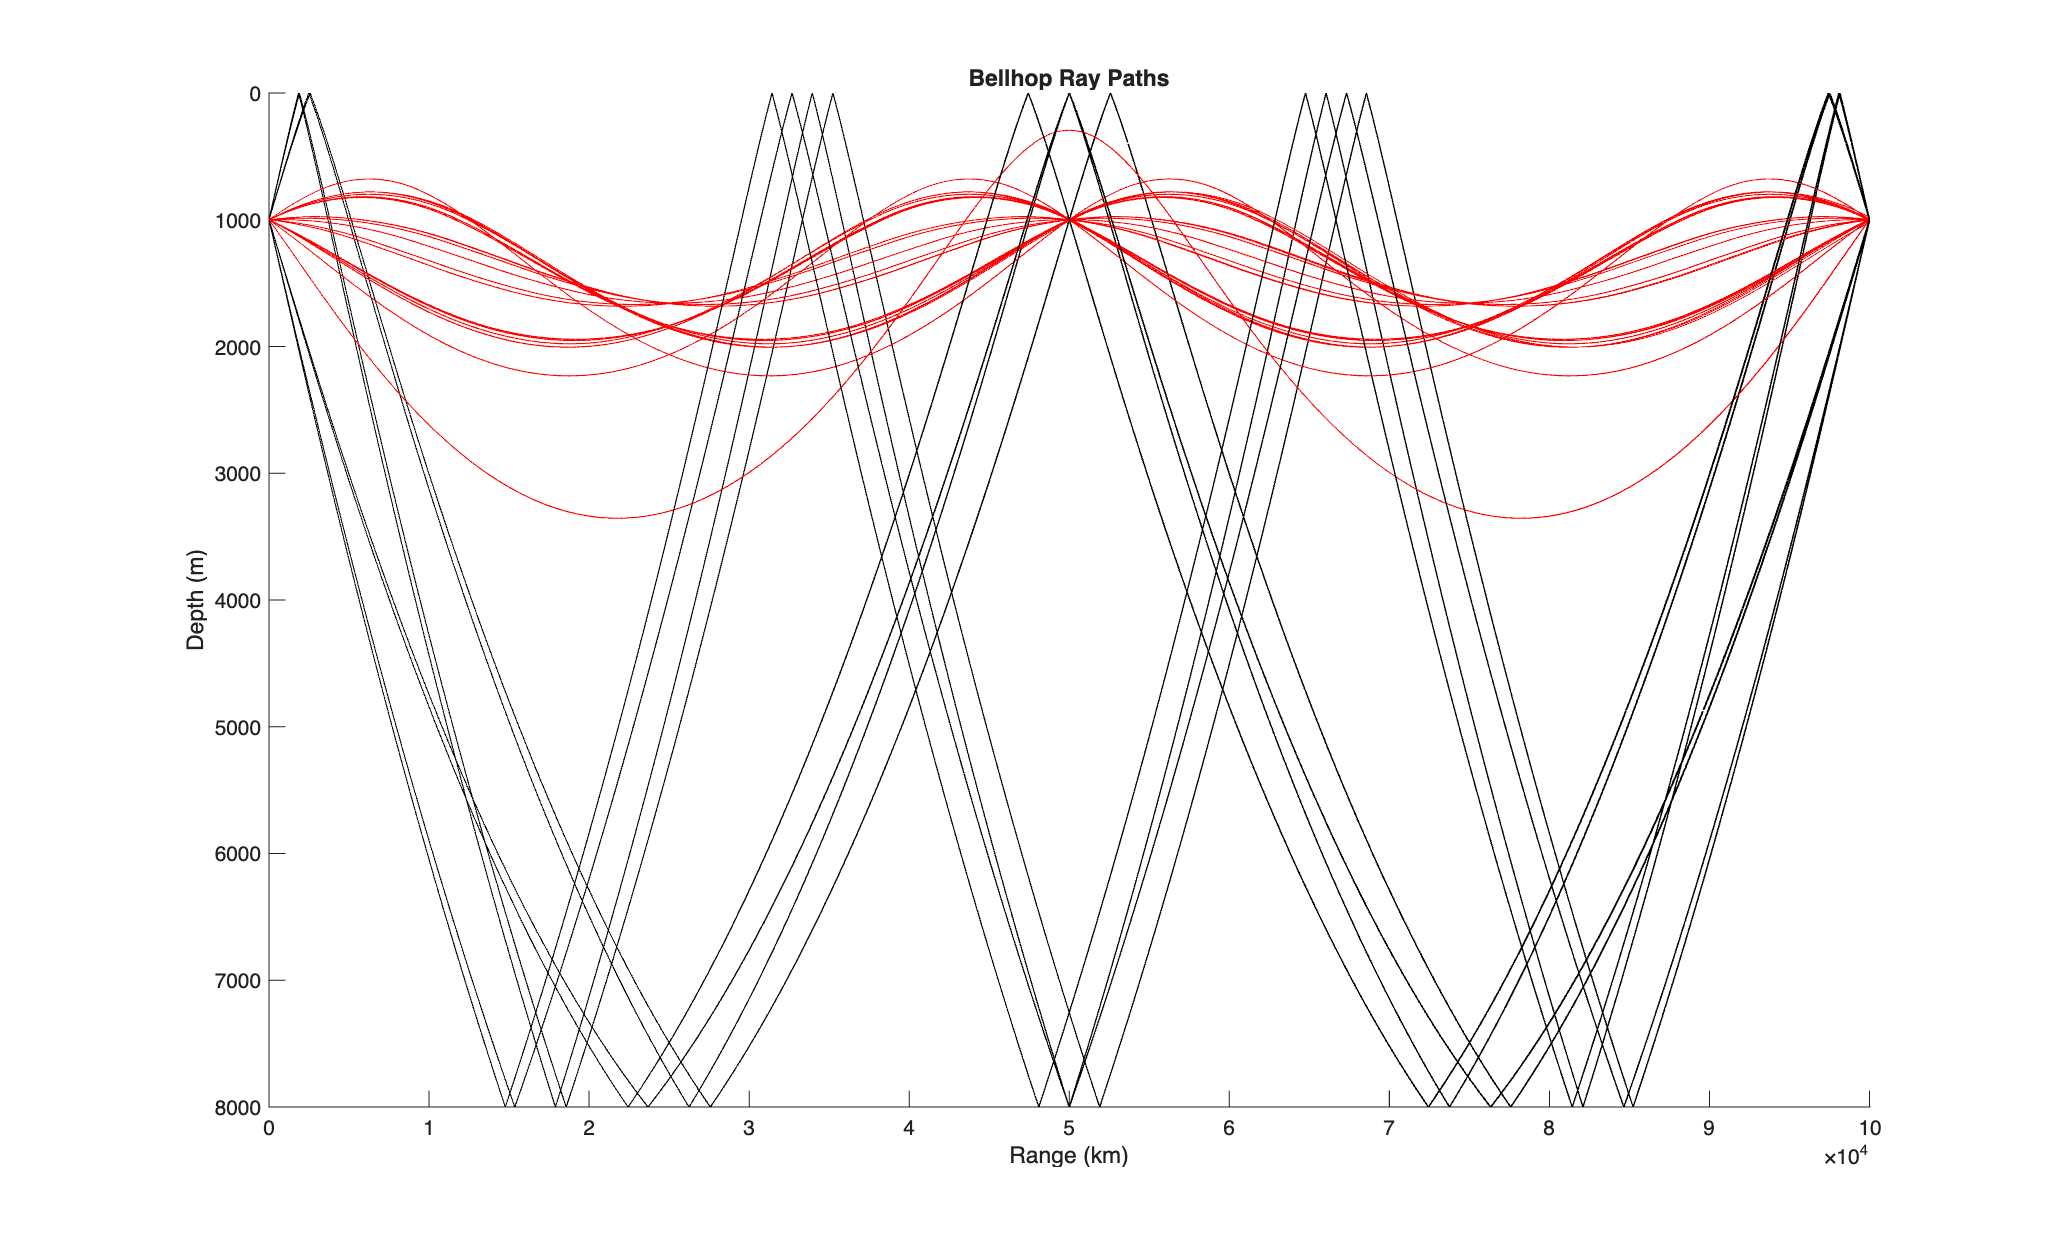
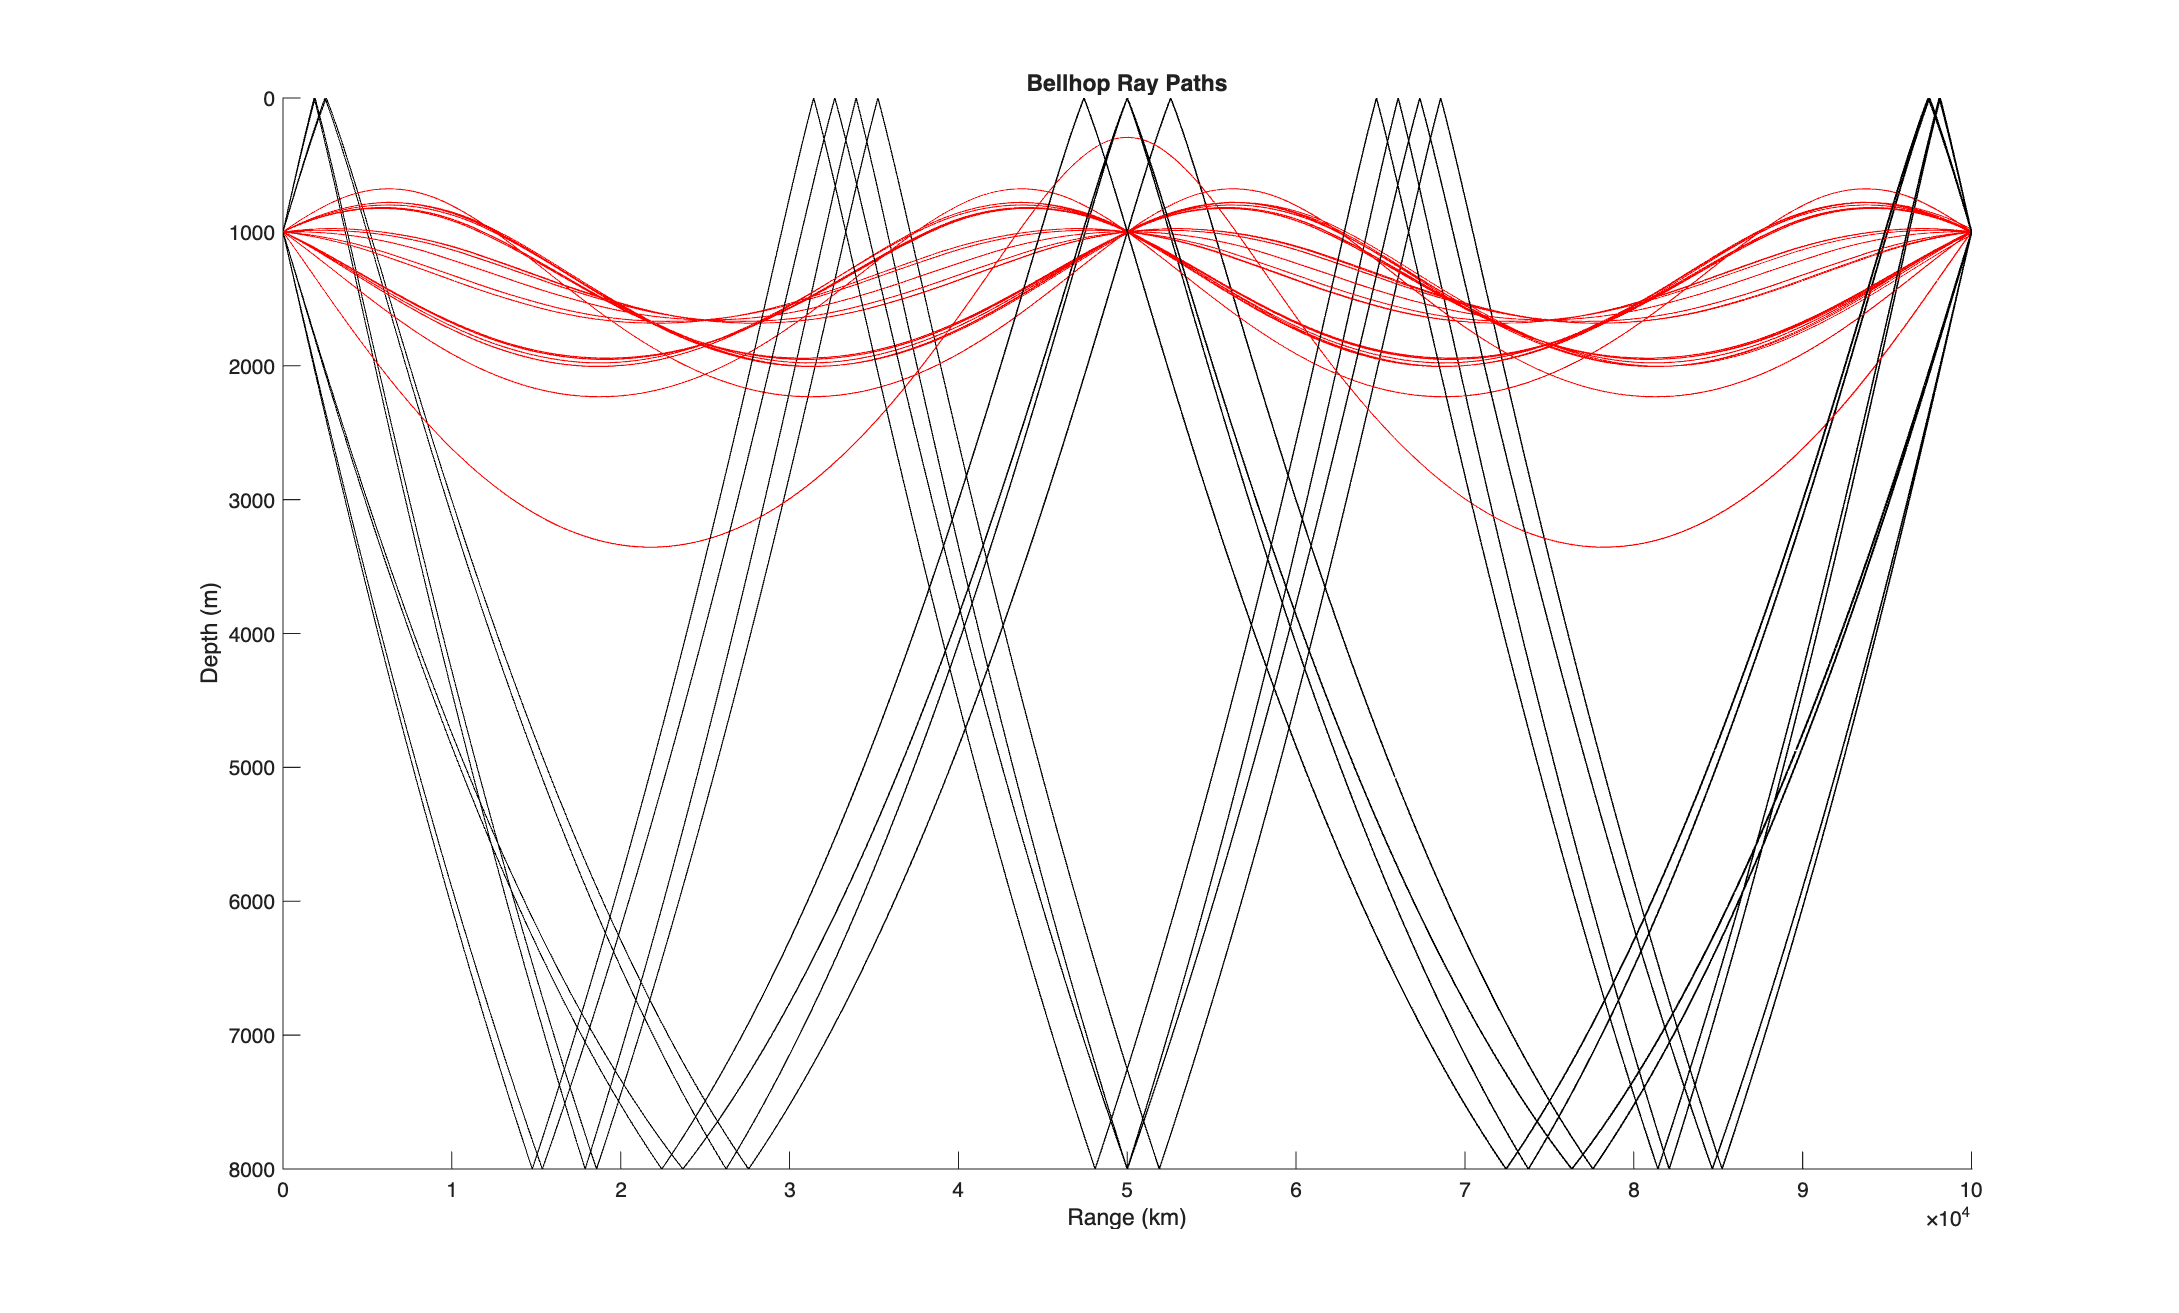
latest changes

diff --git a/run_and_combine.m b/run_and_combine.m
@@ -1,0 +1,83 @@
+%% Run comparison and combine all figures into one
+% This wrapper script runs compare.m and then combines all generated
+% figures into a single comparison figure without modifying the original files
+
+clear; close all; clc;
+
+fprintf('Running model comparison...\n');
+compare;
+
+fprintf('\nCombining figures...\n');
+
+% Get all figure handles (they're created in the order the scripts run)
+figs = findall(0, 'Type', 'figure');
+num_figs = length(figs);
+
+fprintf('Found %d figures to combine\n', num_figs);
+
+% Reverse order since findall returns newest first
+figs = figs(end:-1:1);
+
+% Create combined figure with 2 rows x 3 columns layout
+fig_combined = figure('Position', [50 50 1800 1200], 'Color', 'w');
+
+% Determine grid size based on number of figures
+if num_figs <= 3
+    nrows = 1;
+    ncols = num_figs;
+elseif num_figs <= 6
+    nrows = 2;
+    ncols = 3;
+else
+    nrows = ceil(num_figs / 3);
+    ncols = 3;
+end
+
+% Copy each figure's content to subplot
+for i = 1:num_figs
+    % Create subplot
+    subplot(nrows, ncols, i);
+
+    % Get the axes from the original figure
+    orig_axes = findall(figs(i), 'Type', 'axes');
+
+    if ~isempty(orig_axes)
+        % Use the first (or only) axes if multiple exist
+        orig_ax = orig_axes(1);
+
+        % Copy all children (plots, lines, patches, etc.) to current subplot
+        copyobj(allchild(orig_ax), gca);
+
+        % Copy axes properties
+        title(get(get(orig_ax, 'Title'), 'String'));
+        xlabel(get(get(orig_ax, 'XLabel'), 'String'));
+        ylabel(get(get(orig_ax, 'YLabel'), 'String'));
+
+        % Copy axis direction and limits
+        set(gca, 'YDir', get(orig_ax, 'YDir'));
+        set(gca, 'XLim', get(orig_ax, 'XLim'));
+        set(gca, 'YLim', get(orig_ax, 'YLim'));
+
+        % Copy grid
+        if strcmp(get(orig_ax, 'XGrid'), 'on')
+            grid on;
+        end
+
+        % Make box
+        box on;
+    end
+end
+
+% Add overall title
+sgtitle('Ray Tracing Model Comparison: C-Linear Curvature vs Ray Parameter vs Bellhop', ...
+    'FontSize', 14, 'FontWeight', 'bold');
+
+% Save combined figure
+saveas(fig_combined, 'figures/combined_comparison.png');
+fprintf('Saved combined figure: figures/combined_comparison.png\n');
+
+% Also save as high-resolution PDF for paper
+exportgraphics(fig_combined, 'figures/combined_comparison.pdf', 'Resolution', 300);
+fprintf('Saved high-res PDF: figures/combined_comparison.pdf\n');
+
+fprintf('\nCombination complete!\n');

diff --git a/shared_params.m b/shared_params.m
@@ -4,23 +4,23 @@
 
 %% Environment parameters
 env.max_depth = 8000;       % maximum depth (m)
-env.max_range = 18000;      % maximum range (m) - 15km + 20% buffer
+env.max_range = 100000;     % maximum range (m)
 env.z_min = 0;              % surface depth (m)
 env.z_max = 8000;           % bottom depth (m)
 
 %% Source parameters
-source.depth = 100;         % source depth (m) - shallow source
+source.depth = 1000;        % source depth (m)
 source.range = 0;           % source range (m)
 
 %% Receiver parameters
-receiver.depth = 2000;      % receiver depth (m) - deep receiver below sound channel
-receiver.range = 15000;     % receiver range (m) - 15km medium range
-receiver.tolerance = 10;    % eigenray hit tolerance (m)
+receiver.depth = 1000;      % receiver depth (m)
+receiver.range = 100000;    % receiver range (m)
+receiver.tolerance = 5;     % eigenray hit tolerance (m)
 
 %% Ray fan parameters
-ray_fan.angle_min = -20;    % minimum launch angle (degrees) - narrower for speed
-ray_fan.angle_max = 20;     % maximum launch angle (degrees) - narrower for speed
-ray_fan.num_angles = 501;   % number of rays in fan (reduced for faster computation)
+ray_fan.angle_min = -30;    % minimum launch angle (degrees)
+ray_fan.angle_max = 30;     % maximum launch angle (degrees)
+ray_fan.num_angles = 10001; % number of rays in fan
 
 %% Acoustic parameters
 acoustic.frequency = 100;   % source frequency (Hz)
